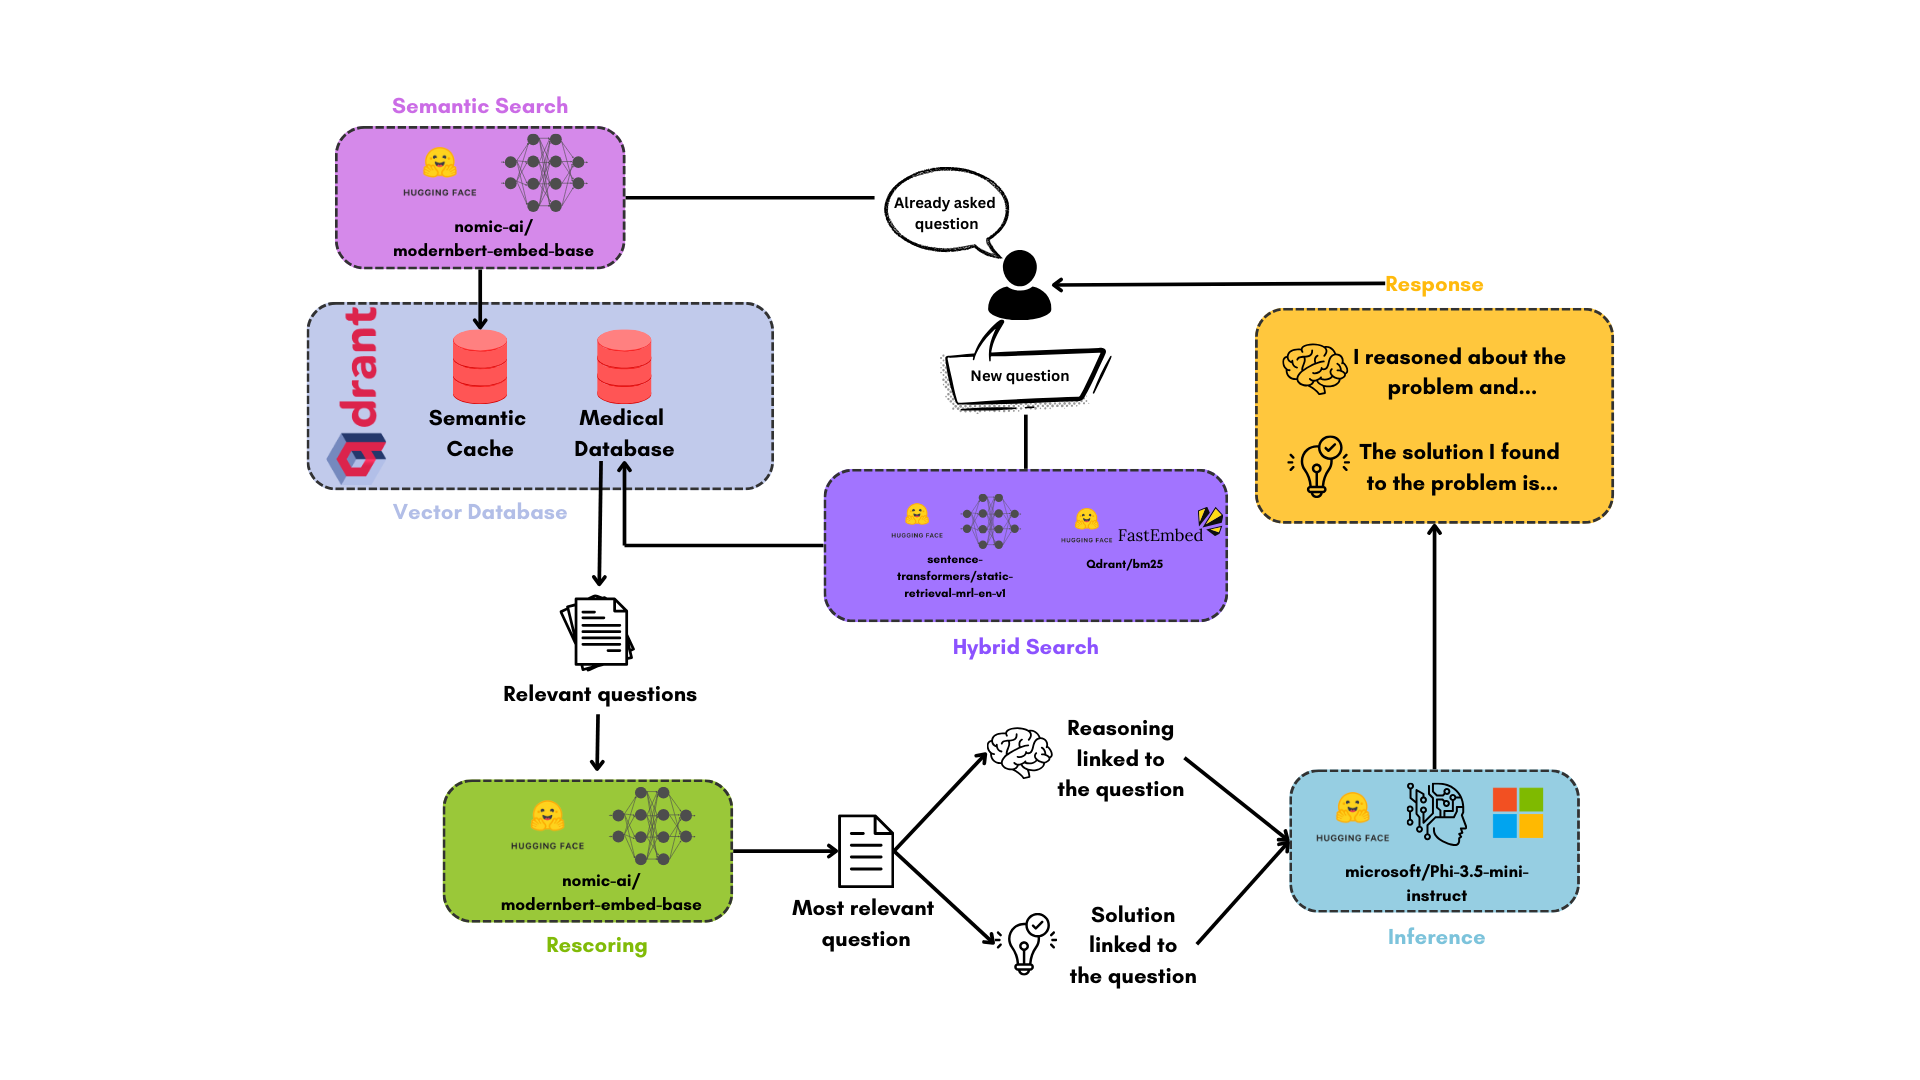
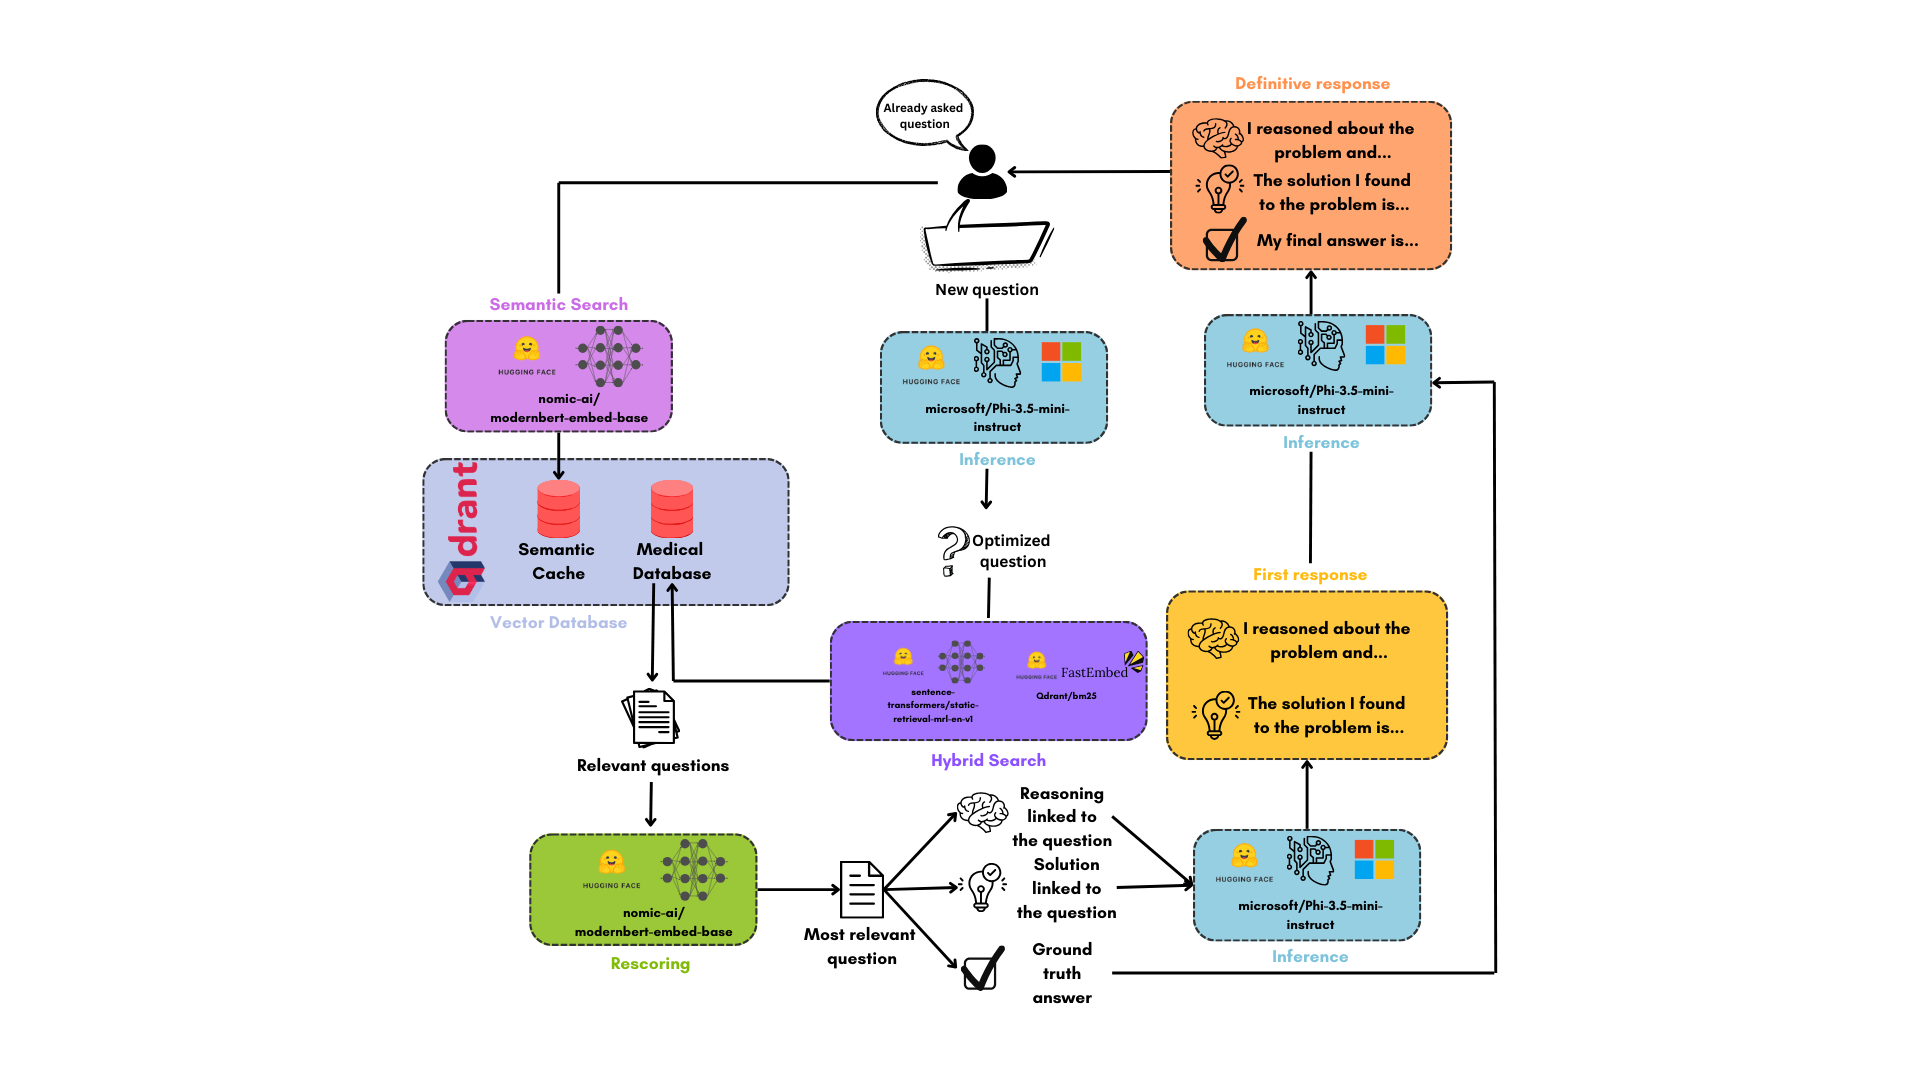
readme update

Changed region(s): [[0.1562, 0.0611, 0.8438, 0.9472]]

diff --git a/README.md b/README.md
@@ -10,6 +10,35 @@
 
 ![PhiCare Workflow](./PhiCare_workflow.png)
 
+## How PhiCare works
+
+PhiCare operates through three main components:
+
+- **Front-end**: Utilizes Vite to render a ChatGPT-like web interface.
+- **Back-end**: Employs a Python-based websocket to process messages from the front-end and send responses.
+- **Database**: Uses a vector database built on [Qdrant](https://qdrant.tech) to store data for retrieval-augmented generation and semantic caching.
+
+Once you launch the application, the vector database will ingest approximately 13,000 medical questions. Each question is associated with:
+- The question itself
+- o1-generated reasoning about the question
+- o1-generated response
+- The ground truth answer
+
+The data comes from two HuggingFace datasets: [`medical-o1-reasoning-SFT`](https://huggingface.co/datasets/FreedomIntelligence/medical-o1-reasoning-SFT) and [`medical-o1-verifiable-problem`](https://huggingface.co/datasets/FreedomIntelligence/medical-o1-verifiable-problem). Dense embeddings are obtained using the static text encoder [`tomaarsen/static-retrieval-mrl-en-v1`](https://huggingface.co/tomaarsen/static-retrieval-mrl-en-v1), while sparse embeddings are generated with [`Qdrant/bm25`](https://huggingface.co/Qdrant/bm25). To speed up retrieval, the medical vector database leverages [binary quantization](https://qdrant.tech/articles/binary-quantization/).
+
+When a user asks a medical question:
+1. The backend first checks for similar questions in the semantic cache using [`modernbert-embed-base`](https://huggingface.co/nomic-ai/modernbert-embed-base). If a match is found, the corresponding answer is returned.
+2. If no significant match is found, it prompts [`Phi-3.5-mini-instruct`](https://huggingface.co/microsoft/Phi-3.5-mini-instruct) (served on HuggingFace Inference API) to produce a question for searching the medical vector database.
+3. The optimized question prompts a hybrid search within the medical vector database. The top 5 ranking matches for both sparse and dense vectors are retrieved and re-scored by `modernbert-embed-base`.
+4. The top-ranking retrieved match (after re-scoring) is retained, and o1-generated reasoning, o1-generated response, and the ground truth answer are extracted from its payload.
+5. `Phi-3.5-mini-instruct` is prompted to produce an answer based on the reasoning and o1-generated response, generating a first response.
+6. The final, refined response is generated by `Phi-3.5-mini-instruct` starting from the ground truth answer.
+7. The final response is always accompanied by a disclaimer stating that PhiCare is an AI assistant and not comparable to the care, accuracy, and knowledge of a human medical professional.
+
+> [!NOTE]
+> `Phi-3.5-mini-instruct` is instructed to assess if the reasoning and the answer provided are valid, relevant to the user's question, and correct. It is also instructed to output an "I don't know" answer when the question is ambiguous and the solution is not completely clear.
+
+
 ## Installation and usage
 
 ### 1. Docker
@@ -19,8 +48,8 @@
 - Clone this repository
 
 ```bash
-git clone https://github.com/AstraBert/PhiCare.git
-cd PhiCare/docker
+git clone https://github.com/AstraBert/phicare.git
+cd phicare/docker-workflow/
 ```
 
 - Add the `hf_token` secret in the [`.env.example`](./docker/.env.example) file and modify the name of the file to `.env`. You can get your HuggingFace token by [registering](https://huggingface.co/join) to HuggingFace and creating a [fine-grained token](https://huggingface.co/settings/tokens) that has access to the Inference API.
@@ -33,9 +62,13 @@ mv .env.example .env
 - Launch the docker application:
 
 ```bash
-# The -d option is not mandatory
-docker compose up -d
+# If you are on Linux/macOS
+bash start_services.sh
+# If you are on Windows
+.\start_services.ps1
 ```
+
+You will see the application running on http://localhost:8501 and you will be able to use it successfully only after the backend is set up (you can see it from the logs). Depending on your connection and on your hardware, this might take some time (up to 30 mins to set up).
 
 ## Local
 
@@ -48,13 +81,13 @@ git clone https://github.com/AstraBert/PhiCare.git
 cd PhiCare/local
 ```
 
-- If you are on Linux, you can run:
+- If you are on macOS/Linux, you can run:
 
 ```bash
 bash local_setup.sh
 ```
 
-- If you are on macOS/Windows, running all the commands separately might be optimal:
+- If you are on Windows, running all the commands separately might be optimal:
 
 ```bash
 # Launch Qdrant
@@ -133,6 +166,3 @@ SOFTWARE.
 ```
 
 **By using PhiCare, you accept these terms of usage**: please, do not apply PhiCare to any out-of-scope use case.
-
-
-
